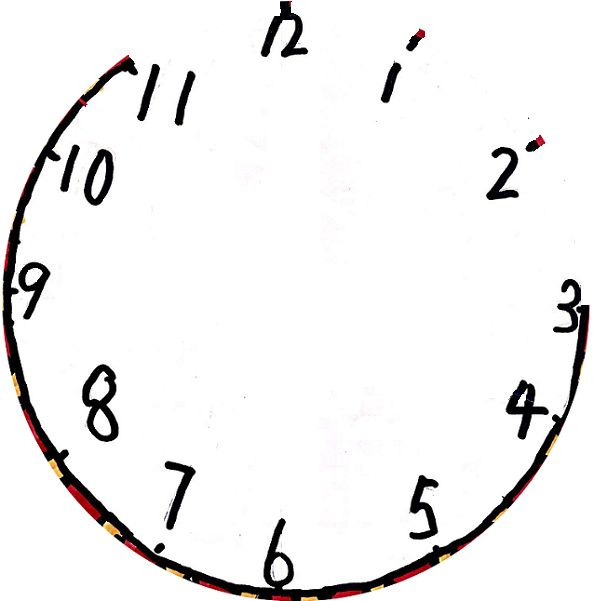
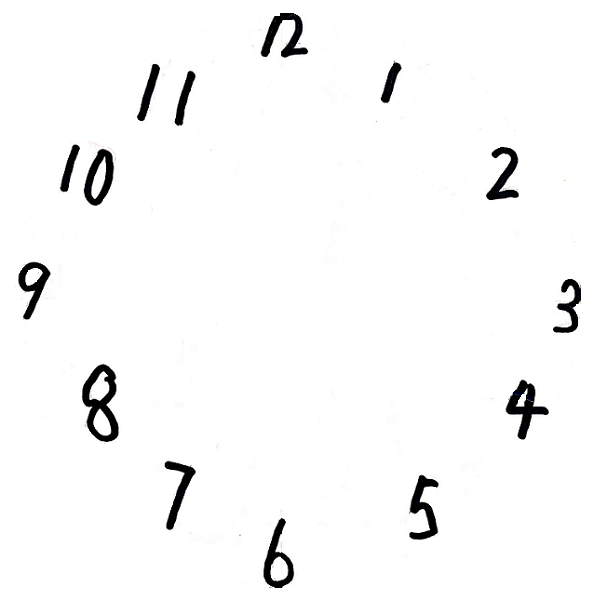
clock

diff --git a/pygame/flower_clock_10_dial_plate_numbers.py b/pygame/flower_clock_10_dial_plate_numbers.py
@@ -34,7 +34,10 @@ class MainWindow():
         self.flist = []
         self.start_point_x = 135
         self.start_point_y = 430
-        self.flowers_num = 60
+        self.flowers_num = 90
+        while 360 % self.flowers_num or self.flowers_num > 60:
+            self.flowers_num -= 1
+        print(self.flowers_num)
         self.create_sprites()
         self.count = 0
 
@@ -58,6 +61,7 @@ class MainWindow():
             self.create_dial_plate()
             self.stretch()
             self.flower_group.update()
+            # pygame.draw.line(self.screen,(225,0,0),self.flist[0].rect_new.topright,self.flist[int(self.flowers_num/2)-1].rect_new.bottomleft)
             pygame.display.update()
 
     def create_sprites(self):
@@ -69,12 +73,18 @@ class MainWindow():
             flower_sprite =  Clock(self.screen,(self.start_point_x,self.start_point_y),self.size,self.angle)
             # draw lines to guide the pictures
             self.start_point_x,self.start_point_y = self.line(self.size[1],self.start_point_x,self.start_point_y,self.angle)
-            self.flower_group.add(flower_sprite)
+            self.flower_group.add(flower_sprite) 
             self.flist.append(flower_sprite)
+        # print(flower_sprite.rect_new.x,flower_sprite.rect_new.y)
         # print(dir(self.flower_group))
+        print(self.flist[0].rect_new.topright,self.flist[int(self.flowers_num/2)-1].rect_new.bottomleft)
+        self.diameter = self.flist[int(self.flowers_num/2)-1].rect_new.bottomleft[0] - self.flist[0].rect_new.topright[0]
+        self.centerx = self.diameter / 2 + self.flist[0].rect_new.topright[0]
+        self.centery = self.flist[0].rect_new.top - self.size[1]/2
+        print('center point',self.centerx,self.centery)
 
 
-    def line(self,length,x=0,y=0,angle_a = 270,color=(255,255,255)):
+    def line(self,length,x=0,y=0,angle_a = 270,color=(255,0,255)):
         x2 = x + length*(sin(angle_a * pi/180))
         y2 = y + length*(sin((90-angle_a) * pi/180))
         pygame.draw.line(self.screen,color,(x,y),(x2,y2),7)
@@ -83,10 +93,13 @@ class MainWindow():
     def create_dial_plate(self):
         dial_pic = 'images/clock/dial_plate.png'
         self.dial_image = pygame.image.load(dial_pic)
+        rate = self.diameter / 600
+        self.dial_image = pygame.transform.rotozoom(self.dial_image, 0 , rate)
         self.dial_rect = self.dial_image.get_rect()
-        self.dial_rect.x = 125
-        self.dial_rect.y = 118 
+        self.dial_rect.centerx = self.centerx 
+        self.dial_rect.centery = self.centery
         self.screen.blit(self.dial_image,self.dial_rect)
+        pygame.draw.circle(self.screen,self.color_list[3],self.dial_rect.center,7)
 
     def stretch(self):
         self.count = 0 if self.count >= self.flowers_num else self.count

diff --git a/pygame/flower_clock_11_zoom.py b/pygame/flower_clock_11_zoom.py
@@ -72,6 +72,7 @@ class MainWindow():
             self.create_dial_plate()
             self.stretch()
             self.flower_group.update()
+            # pygame.draw.line(self.screen,(225,0,0),self.flist[0].rect_new.topright,self.flist[int(self.flowers_num/2)-1].rect_new.bottomleft)
             pygame.display.update()
 
 
